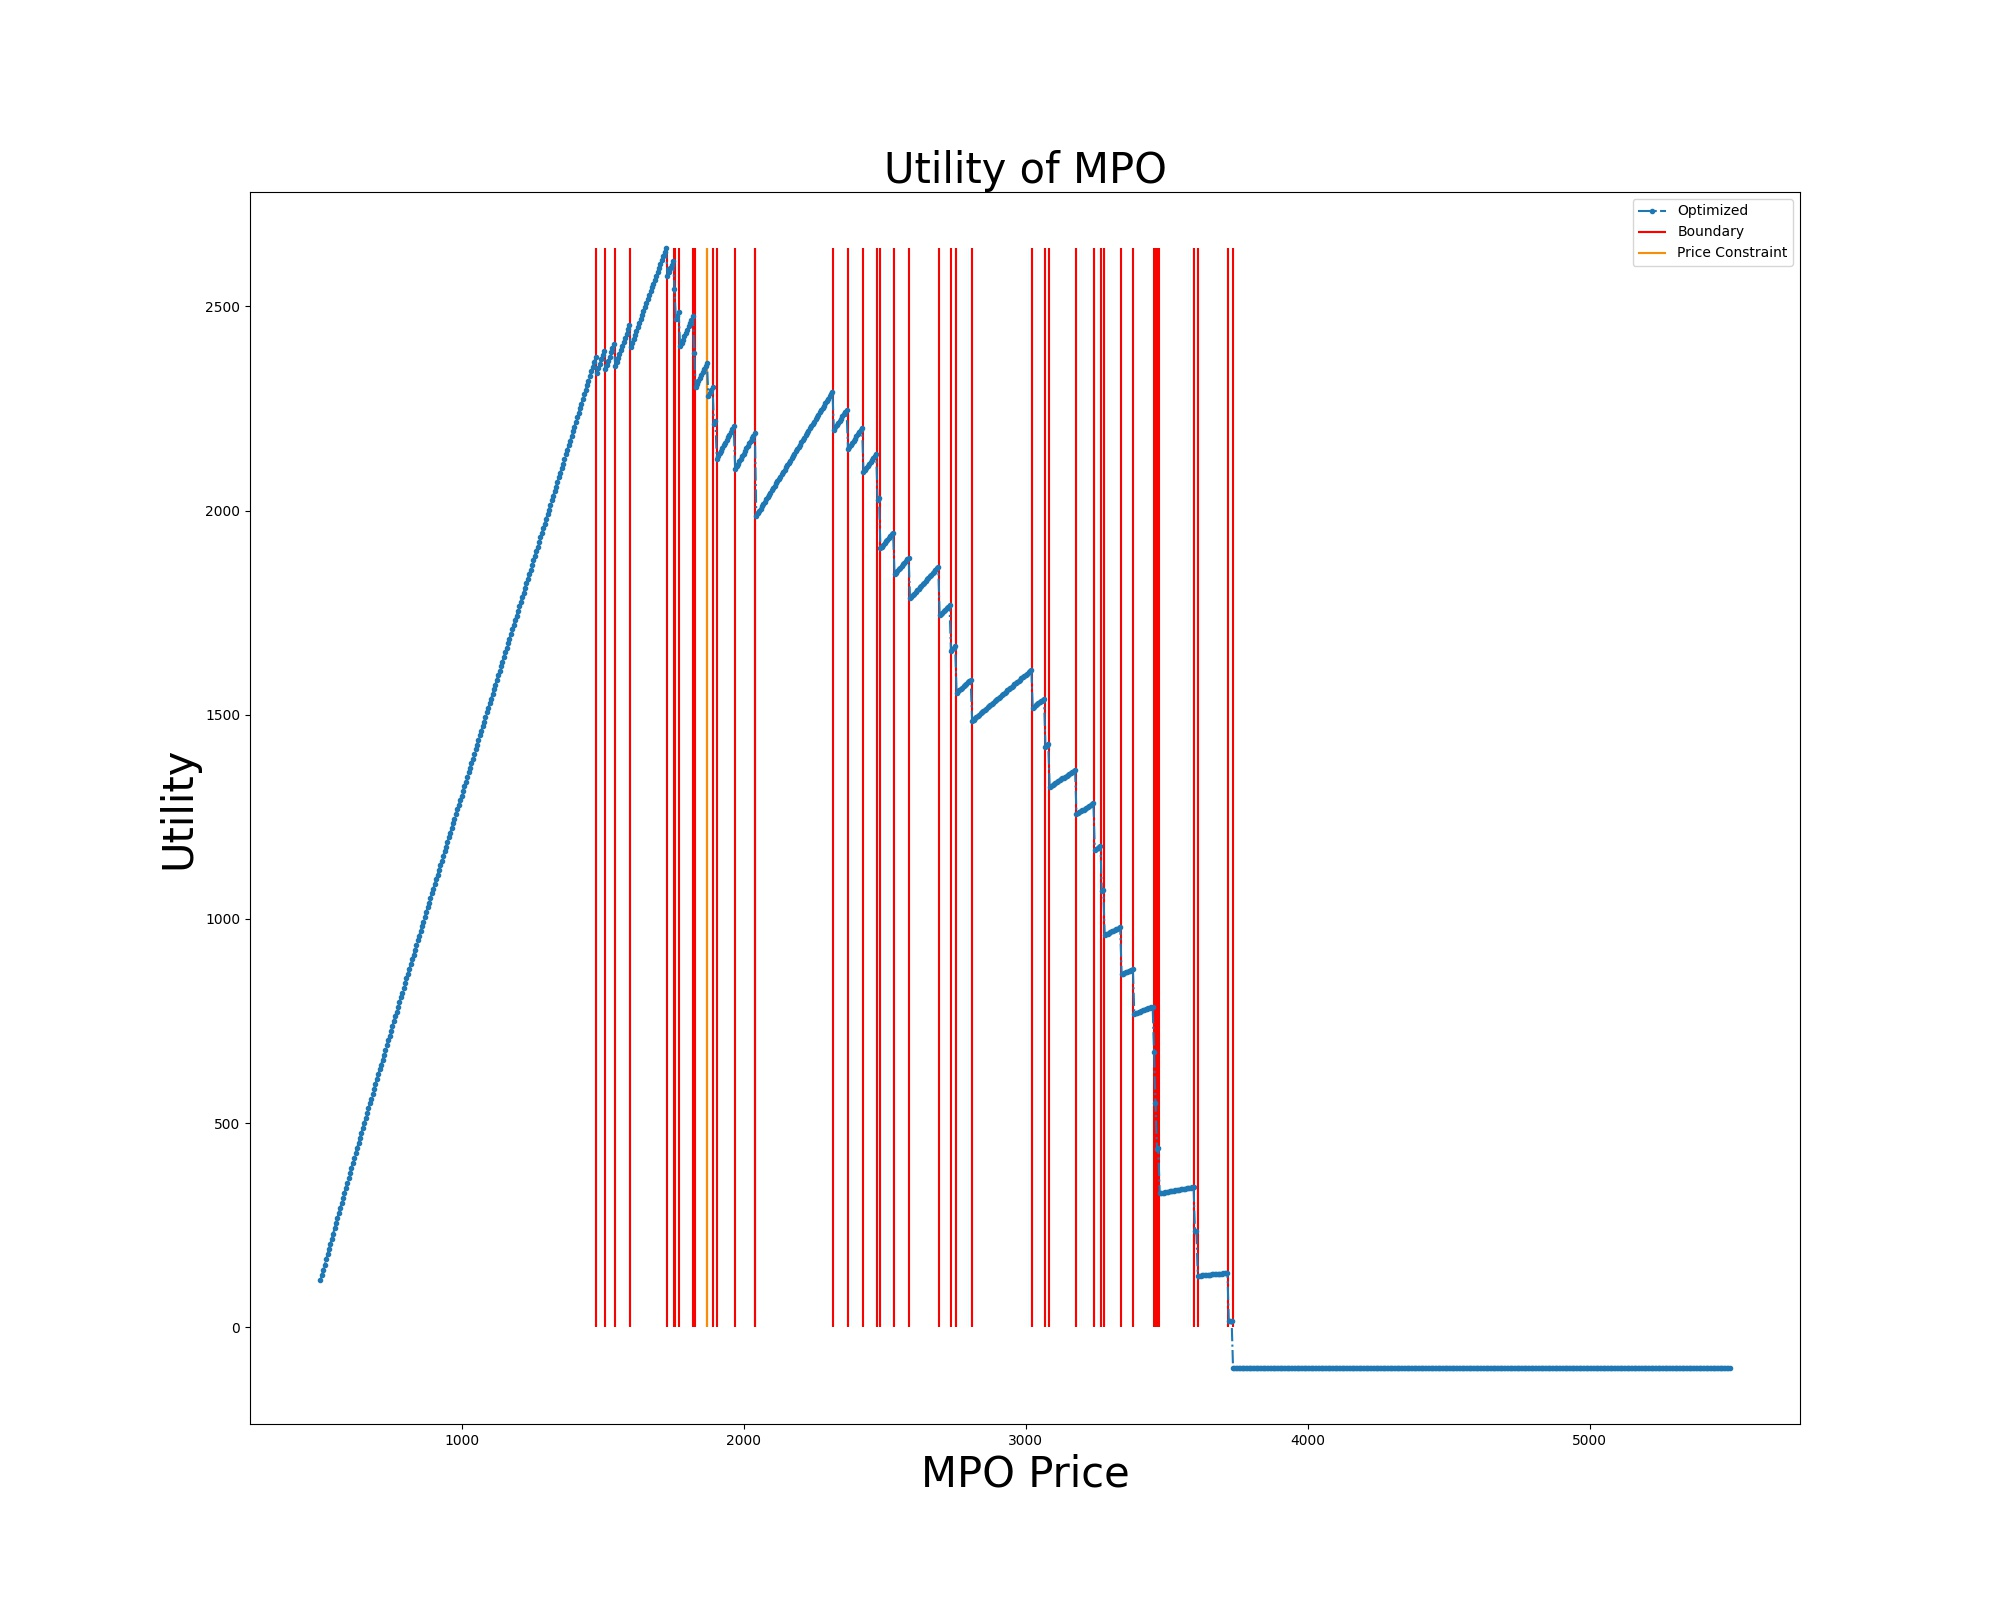
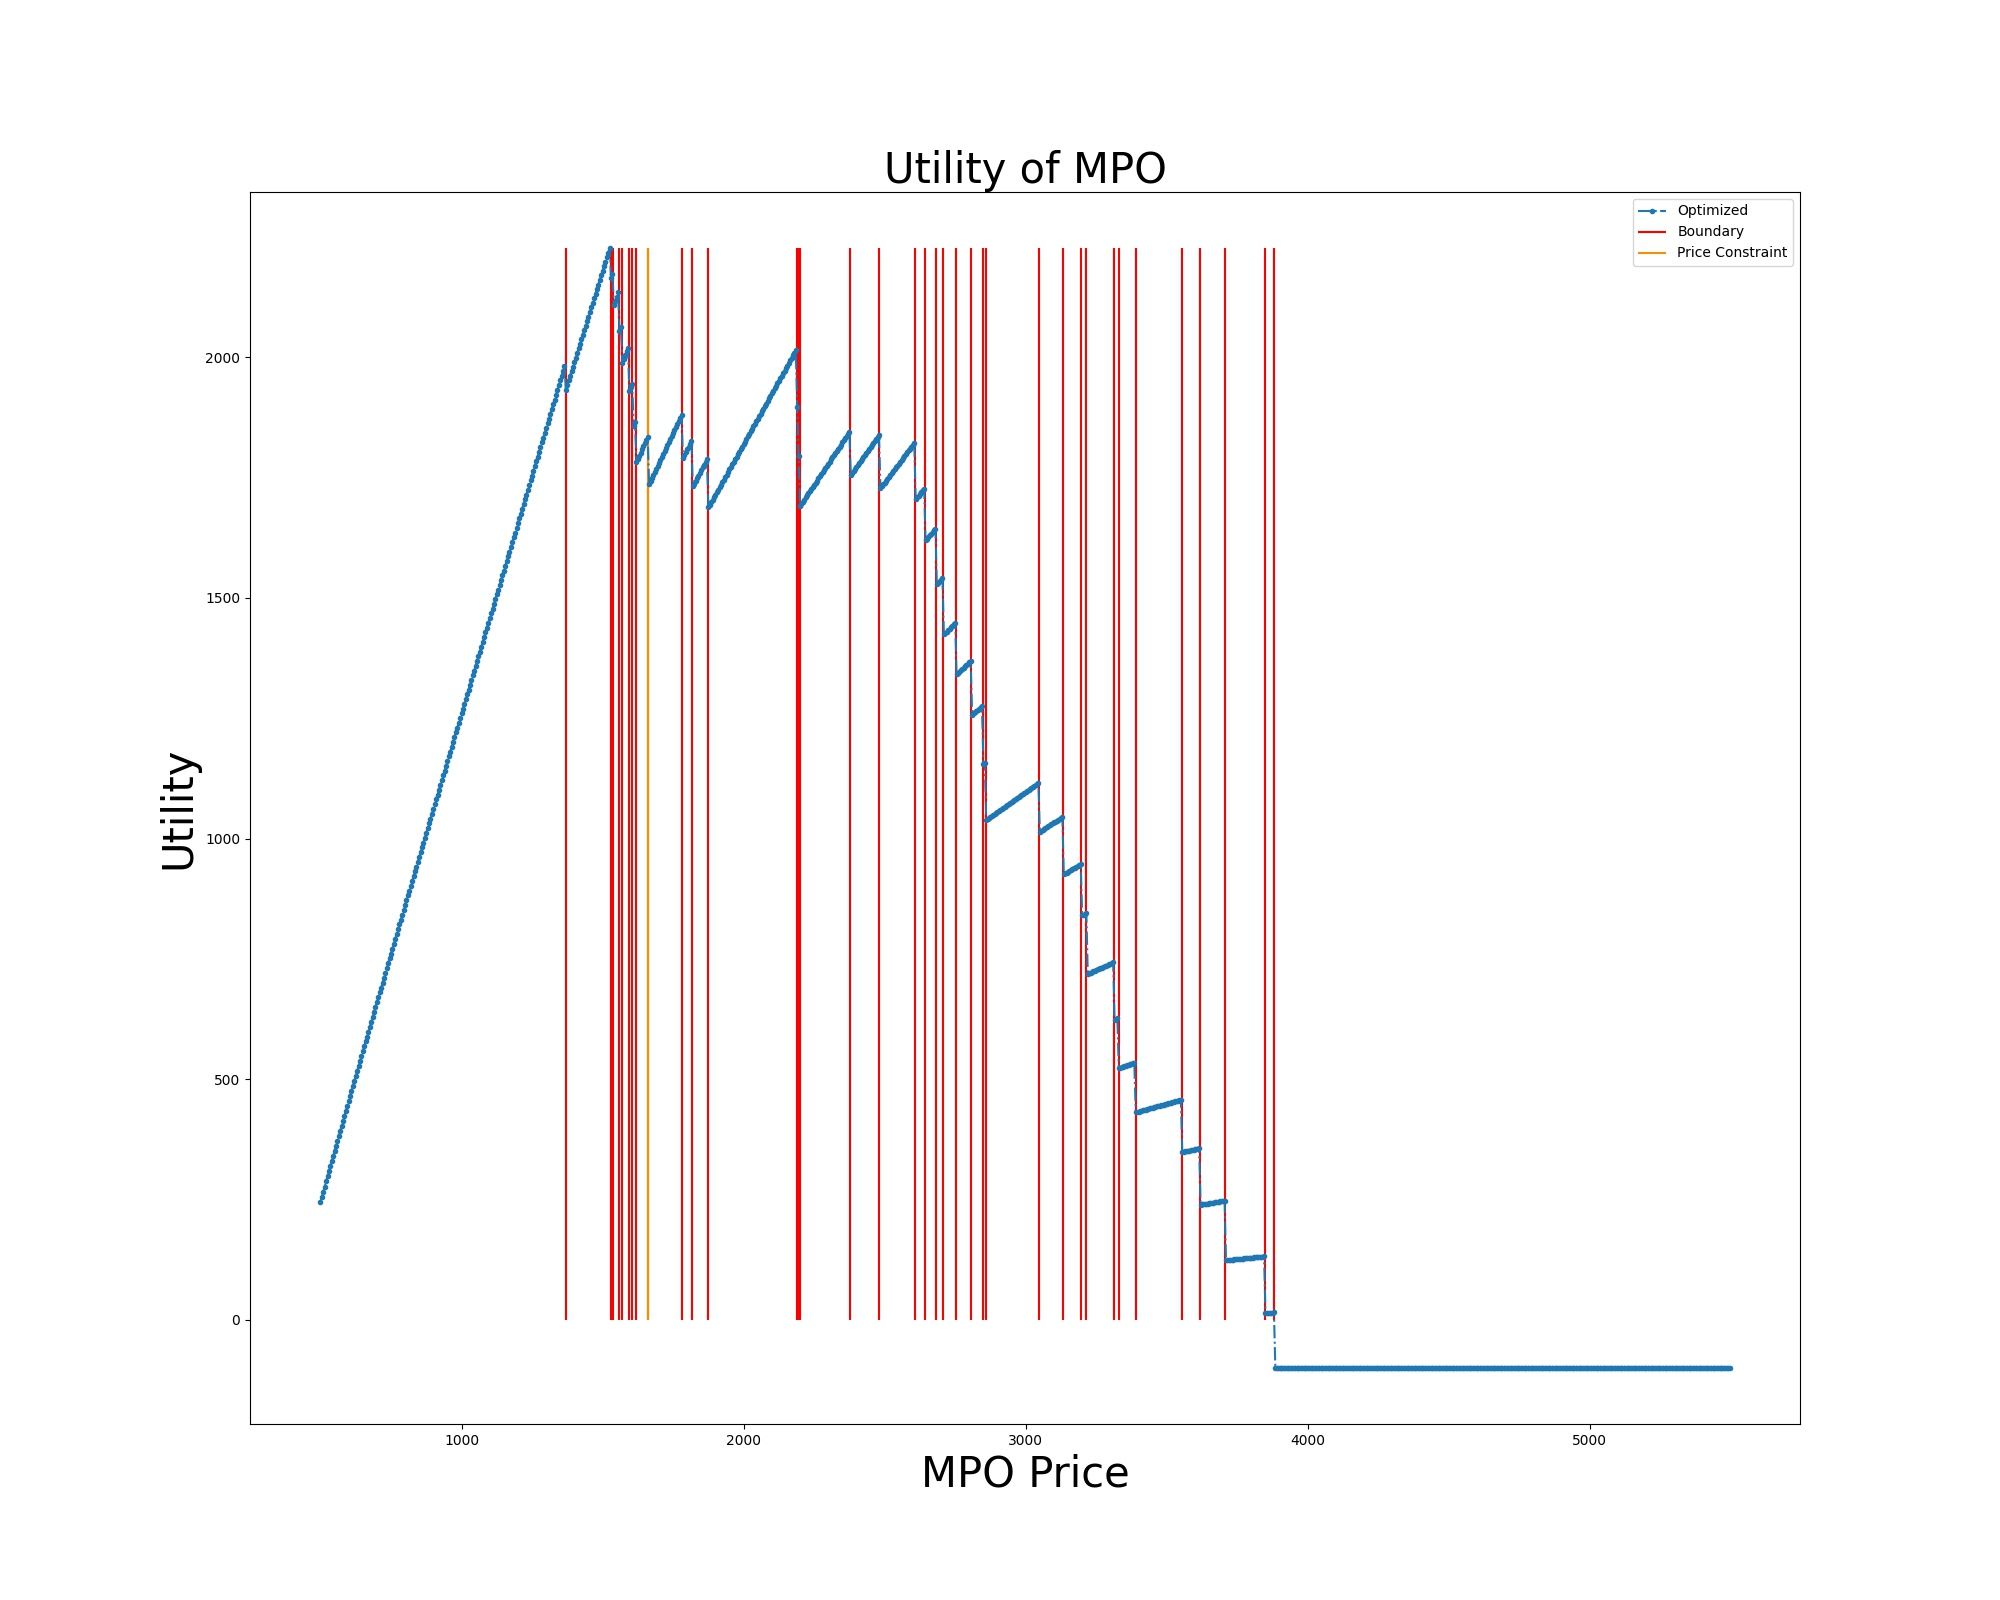
fix const

diff --git a/simulation_code/const.py b/simulation_code/const.py
@@ -40,9 +40,6 @@ ASP_BANDWIDTH = 20 * 10E6
 
 ASP_NUM_OF_NORMAL_USERS = 50
 
-ASP_NUM_OF_MALICIOUS_USERS_UPPER = 100
-ASP_NUM_OF_MALICIOUS_USERS_LOWER = 50
-
 ASP_CPU_FREQUENCY_UPPER = 0.3 * 10E9
 ASP_CPU_FREQUENCY_LOWER = 0.1 * 10E9
 
